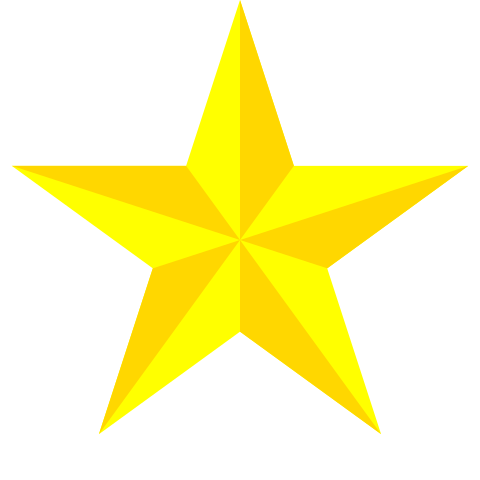
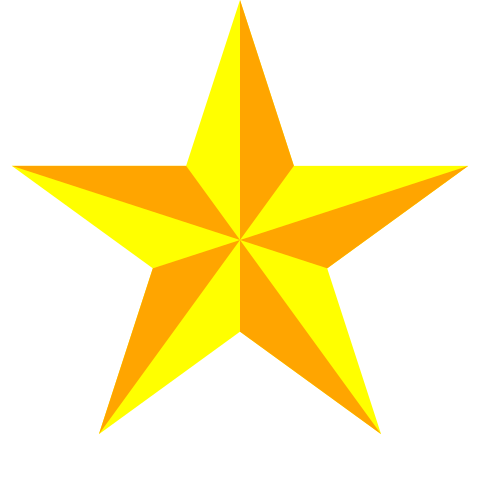
Fix svg of Star

Changed region(s): [[0.0312, 0.0, 0.9688, 0.9062], [0.1875, 0.875, 0.2188, 0.9062]]

diff --git a/app/skills/skillGroup.tsx b/app/skills/skillGroup.tsx
@@ -11,6 +11,10 @@ const Star = ({ refCallback }: { readonly refCallback: (instance: SVGSVGElement)
                 fillRule="nonzero"
                 points="0,-100 -58.78,80.90 95.11,-30.90 -95.11,-30.90 58.78,80.90"
             />
+            <polygon
+                fill="gold"
+                points="0,0 -22.45,-30.9 -95.11,-30.9 0,0 -36.33,11.8 -58.78,80.9 0,0 0,38.2 58.78,80.9 0,0 36.33,11.8 95.11,-30.9 0,0 22.45,-30.9 0,-100"
+            />
         </svg>
     );
 };

diff --git a/app/_components/pageTransition/pageTransitionAnimationBefore.tsx b/app/_components/pageTransition/pageTransitionAnimationBefore.tsx
@@ -15,7 +15,7 @@ const Star = forwardRef<SVGSVGElement>((_, ref): JSX.Element => {
                 points="0,-100 -58.78,80.90 95.11,-30.90 -95.11,-30.90 58.78,80.90"
             />
             <polygon
-                fill="gold"
+                fill="orange"
                 points="0,0 -22.45,-30.9 -95.11,-30.9 0,0 -36.33,11.8 -58.78,80.9 0,0 0,38.2 58.78,80.9 0,0 36.33,11.8 95.11,-30.9 0,0 22.45,-30.9 0,-100"
             />
         </svg>
